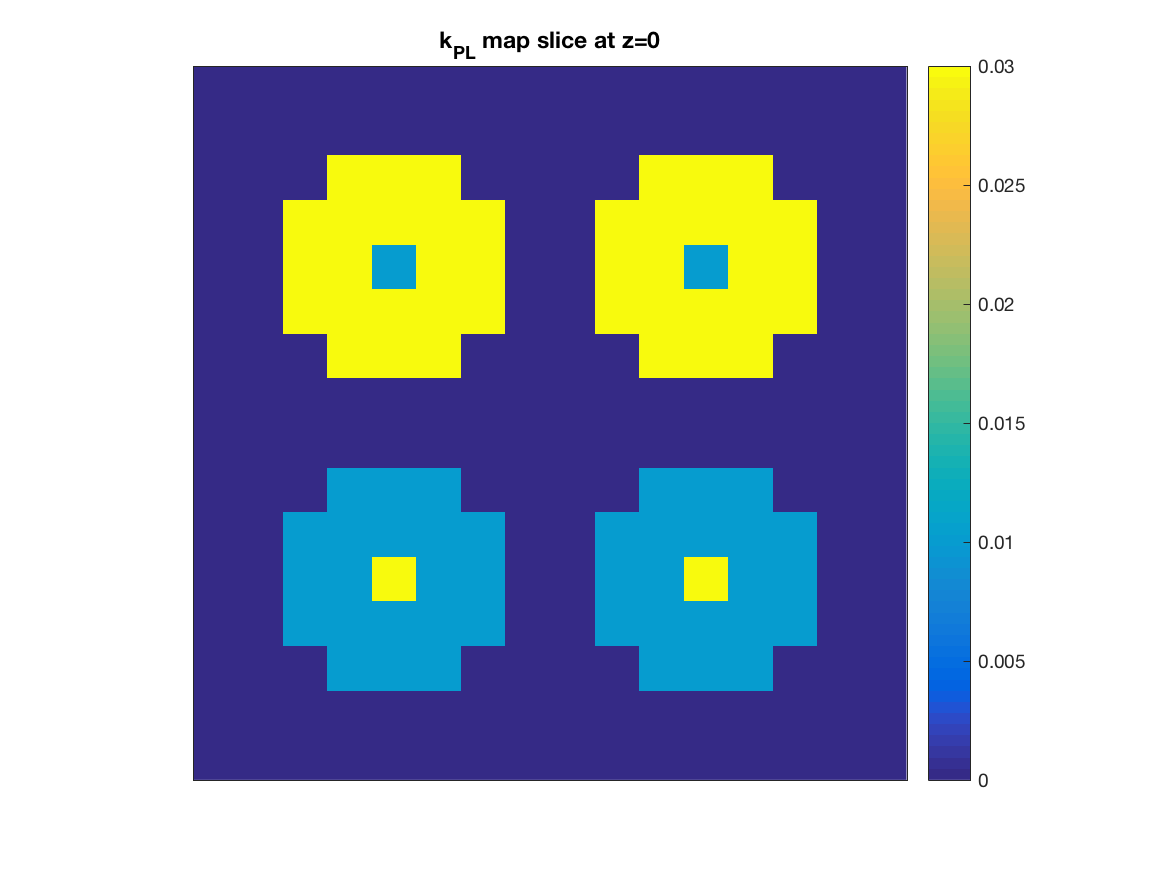
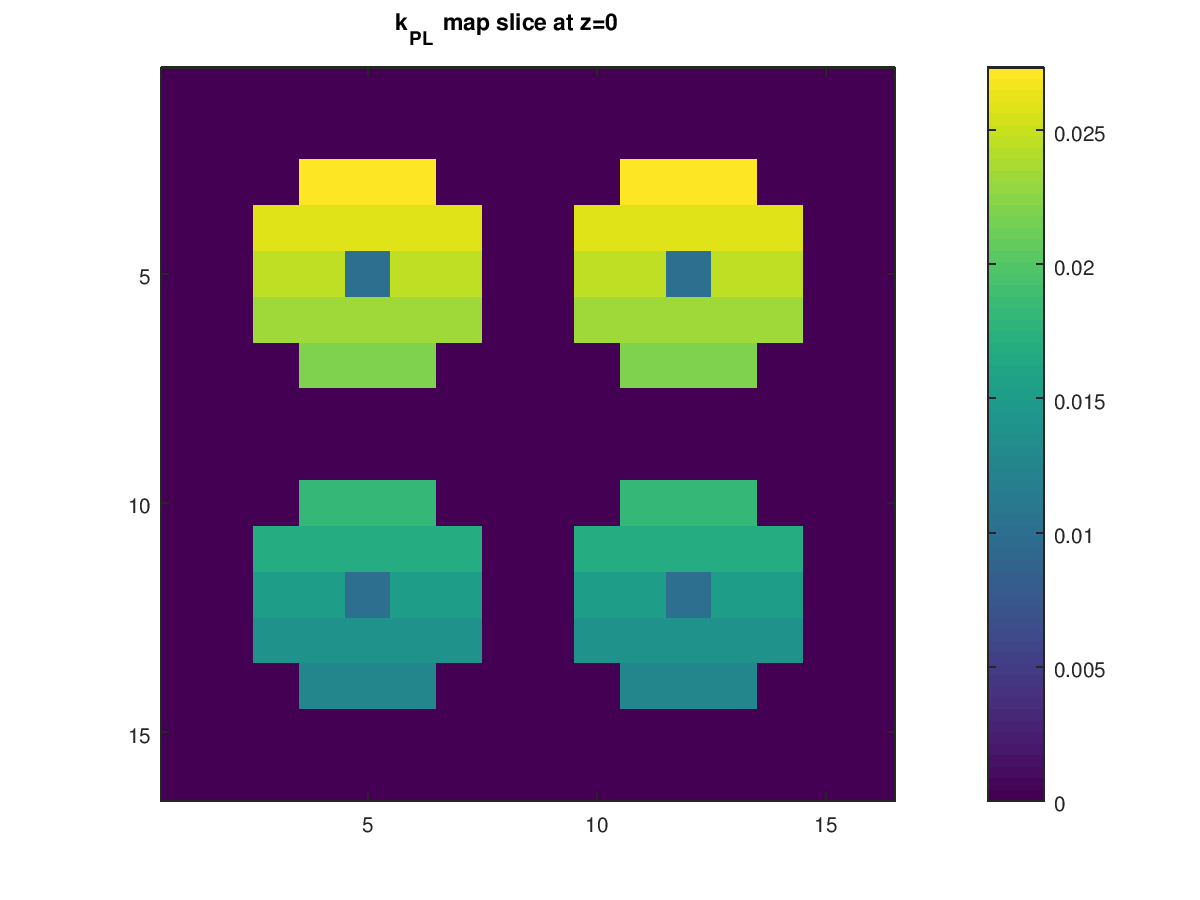
Include option for metabolic phantom to use kTRANS and kPL maps that vary linearly in space

diff --git a/metabolic_phantom/metabolic_phantom.m b/metabolic_phantom/metabolic_phantom.m
@@ -1,4 +1,4 @@
-function [kTRANS, kPL] = metabolic_phantom( nx, ny, nz, kTRANS_low, kTRANS_high, kPL_low, kPL_high )
+function [kTRANS, kPL] = metabolic_phantom( nx, ny, nz, kTRANS_low, kTRANS_high, kPL_low, kPL_high, linear_kTRANS_gradient, linear_kPL_gradient)
 % METABOLIC_PHANTOM generates standardized 3-dimensional perfusion and metabolism maps for simulated experiments
 % 
 %   Parameters: 
@@ -9,6 +9,8 @@ function [kTRANS, kPL] = metabolic_phantom( nx, ny, nz, kTRANS_low, kTRANS_high,
 %       kTRANS_high = perfusion rate in high perfusion region
 %       kPL_low     = metabolic rate in low metabolism regions
 %       kPL_high    = metabolic rate in high metabolism regions
+%       linear_kTRANS_gradient = boolean flag for whether kTRANS should be set to a gradient
+%       linear_kPL_gradient    = boolean flag for whether kPL should be set to a gradient
 % 
 %   Outputs: 
 %       kTRANS      = generated perfusion map
@@ -25,15 +27,28 @@ function [kTRANS, kPL] = metabolic_phantom( nx, ny, nz, kTRANS_low, kTRANS_high,
     [X, Y, Z] = meshgrid(x, y, z);
     
     kTRANS = zeros(size(X)); 
-    kTRANS = kTRANS + kTRANS_low*rectangle_shape(X, Y, Z, 0.8, 1.6, 1.6, 0.4, 0, 0);
-    kTRANS = kTRANS + kTRANS_high*rectangle_shape(X, Y, Z, 0.8, 1.6, 1.6, -0.4, 0, 0);
+    
+    if (linear_kTRANS_gradient)
+        scale = 0.5*(kTRANS_low - kTRANS_high)*X + 0.5*(kTRANS_low + kTRANS_high);
+        kTRANS += scale.*rectangle_shape(X, Y, Z, 1.6, 1.6, 1.6, 0, 0, 0);
+    else
+        kTRANS = kTRANS + kTRANS_low*rectangle_shape(X, Y, Z, 0.8, 1.6, 1.6, 0.4, 0, 0);
+        kTRANS = kTRANS + kTRANS_high*rectangle_shape(X, Y, Z, 0.8, 1.6, 1.6, -0.4, 0, 0);
+    end
     
     kPL = zeros(size(X));
-    kPL = kPL + kPL_low*sphere(X, Y, Z, 0.35, 0.45, 0.45, 0) + (kPL_high - kPL_low)*sphere(X, Y, Z, 0.10, 0.45, 0.45, 0);
-    kPL = kPL + kPL_low*sphere(X, Y, Z, 0.35, -0.45, 0.45, 0) + (kPL_high - kPL_low)*sphere(X, Y, Z, 0.10, -0.45, 0.45, 0);
-    kPL = kPL + kPL_high*sphere(X, Y, Z, 0.35, 0.45, -0.45, 0) + (kPL_low - kPL_high)*sphere(X, Y, Z, 0.10, 0.45, -0.45, 0);
-    kPL = kPL + kPL_high*sphere(X, Y, Z, 0.35, -0.45, -0.45, 0) + (kPL_low - kPL_high)*sphere(X, Y, Z, 0.10, -0.45, -0.45, 0);   
-    
+    if (linear_kPL_gradient)
+        scale = 0.5*(kPL_low - kPL_high)*Y + 0.5*(kPL_low + kPL_high);
+        kPL = kPL + scale.*sphere(X, Y, Z, 0.35, 0.45, 0.45, 0) + (kPL_low - scale).*sphere(X, Y, Z, 0.10, 0.45, 0.45, 0);
+        kPL = kPL + scale.*sphere(X, Y, Z, 0.35, -0.45, 0.45, 0) + (kPL_low - scale).*sphere(X, Y, Z, 0.10, -0.45, 0.45, 0);
+        kPL = kPL + scale.*sphere(X, Y, Z, 0.35, 0.45, -0.45, 0) + (kPL_low - scale).*sphere(X, Y, Z, 0.10, 0.45, -0.45, 0);
+        kPL = kPL + scale.*sphere(X, Y, Z, 0.35, -0.45, -0.45, 0) + (kPL_low - scale).*sphere(X, Y, Z, 0.10, -0.45, -0.45, 0);   
+    else
+        kPL = kPL + kPL_low*sphere(X, Y, Z, 0.35, 0.45, 0.45, 0) + (kPL_high - kPL_low)*sphere(X, Y, Z, 0.10, 0.45, 0.45, 0);
+        kPL = kPL + kPL_low*sphere(X, Y, Z, 0.35, -0.45, 0.45, 0) + (kPL_high - kPL_low)*sphere(X, Y, Z, 0.10, -0.45, 0.45, 0);
+        kPL = kPL + kPL_high*sphere(X, Y, Z, 0.35, 0.45, -0.45, 0) + (kPL_low - kPL_high)*sphere(X, Y, Z, 0.10, 0.45, -0.45, 0);
+        kPL = kPL + kPL_high*sphere(X, Y, Z, 0.35, -0.45, -0.45, 0) + (kPL_low - kPL_high)*sphere(X, Y, Z, 0.10, -0.45, -0.45, 0);   
+    end
 end
 
 

diff --git a/metabolic_phantom/DEMO.m b/metabolic_phantom/DEMO.m
@@ -7,8 +7,10 @@ kTRANS_low  = 0.02;
 kTRANS_high = 0.05; 
 kPL_low     = 0.01;
 kPL_high    = 0.03; 
+linear_kTRANS_gradient = true; 
+linear_kPL_gradient = true; 
 
-[kTRANS, kPL] = metabolic_phantom(nx, ny, nz, kTRANS_low, kTRANS_high, kPL_low, kPL_high); 
+[kTRANS, kPL] = metabolic_phantom(nx, ny, nz, kTRANS_low, kTRANS_high, kPL_low, kPL_high, linear_kTRANS_gradient, linear_kPL_gradient); 
 
 % plot kTRANS and kPL maps 
 
@@ -16,8 +18,8 @@ z_slice = nz/2; % define slice to plot
 
 f = figure(1);
 imagesc(kTRANS(:, :, z_slice))
-xticks([])
-yticks([])
+% xticks([])
+% yticks([])
 title('k_{TRANS} map slice at z=0')
 pbaspect([1 1 1])
 colorbar()
@@ -25,8 +27,8 @@ saveas(f, 'kTRANS_16.png', 'png')
 
 f = figure(2);
 imagesc(kPL(:, :, z_slice))
-xticks([])
-yticks([])
+% xticks([])
+% yticks([])
 title('k_{PL} map slice at z=0')
 pbaspect([1 1 1])
 colorbar()
@@ -39,7 +41,7 @@ nx = 256;
 ny = 256;
 nz = 256;
 
-[kTRANS, kPL] = metabolic_phantom(nx, ny, nz, kTRANS_low, kTRANS_high, kPL_low, kPL_high); 
+[kTRANS, kPL] = metabolic_phantom(nx, ny, nz, kTRANS_low, kTRANS_high, kPL_low, kPL_high, linear_kTRANS_gradient, linear_kPL_gradient); 
 
 % plot kTRANS and kPL maps 
 
@@ -47,8 +49,8 @@ z_slice = nz/2; % define slice to plot
 
 f = figure(3);
 imagesc(kTRANS(:, :, z_slice))
-xticks([])
-yticks([])
+%xticks([])
+%yticks([])
 title('k_{TRANS} map slice at z=0')
 pbaspect([1 1 1])
 colorbar()
@@ -56,8 +58,8 @@ saveas(f, 'kTRANS_256.png', 'png')
 
 f = figure(4);
 imagesc(kPL(:, :, z_slice))
-xticks([])
-yticks([])
+%xticks([])
+%yticks([])
 title('k_{PL} map slice at z=0')
 pbaspect([1 1 1])
 colorbar()
